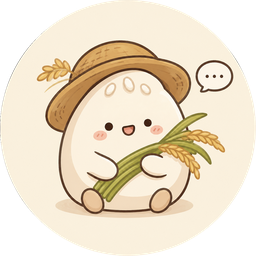
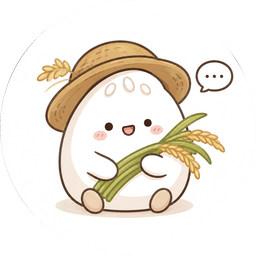
Put 알농이 on a white circle in the floating button
- White-balance the mascot art so its cream backdrop reads pure white,
  keeping the circular alpha crop
- Floating button becomes a white pill with a bordered circular avatar;
  hover reveals "AI 채팅" in brand green

diff --git a/index.html b/index.html
@@ -13,7 +13,7 @@
 <link rel="stylesheet" href="vendor/overlayscrollbars/overlayscrollbars.min.css">
 <script src="vendor/leaflet.js"></script>
 <script src="vendor/agri-chat/agri-chat.min.js"></script>
-<link rel="stylesheet" href="css/style.css?v=42">
+<link rel="stylesheet" href="css/style.css?v=44">
 </head>
 <body>
 
@@ -97,7 +97,7 @@
         </button>
         <div class="notif-panel" id="notifPanel" onclick="event.stopPropagation()">
           <div class="notif-head"><b>알림</b><button onclick="readAllNotifs()">모두 읽음</button></div>
-          <div class="notif-list" id="notifScroll"><div id="notifList"></div></div>
+          <div class="notif-list" id="notifScroll" data-fade><div id="notifList"></div></div>
           <div class="notif-foot"><a href="#" onclick="toast('info','알림 설정 — 시안 범위 외');return false">알림 설정</a></div>
         </div>
       </div>
@@ -375,7 +375,7 @@ docker run --rm -p 8080:8080 \
 
         <div class="mf-panel" style="padding:16px 18px;display:flex;flex-direction:column;gap:8px;flex:1;min-height:0">
           <div class="sec-t" style="font-size:14px" id="rankTitle">시도별 순위 · 평균 경락가</div>
-          <div id="rankScroll" style="overflow-y:auto;flex:1;min-height:0"><div id="rankList" style="display:flex;flex-direction:column;gap:2px"></div></div>
+          <div id="rankScroll" data-fade style="overflow-y:auto;flex:1;min-height:0"><div id="rankList" style="display:flex;flex-direction:column;gap:2px"></div></div>
         </div>
       </div>
 
@@ -745,7 +745,7 @@ docker run --rm -p 8080:8080 \
           <button class="btn btn-neu btn-sm" onclick="dlReceipts()">이용내역 전체 내려받기</button>
         </div>
         <div style="padding:0 26px 8px" class="rcpt-chips" id="rcptChips"></div>
-        <div id="rcptScroll"><div id="rcptList"></div></div>
+        <div id="rcptScroll" data-fade><div id="rcptList"></div></div>
       </div>
     </div>
   </section>
@@ -874,7 +874,7 @@ docker run --rm -p 8080:8080 \
 <!-- ══════════ 플로팅 챗봇 ══════════ -->
 <button class="fab hidden" id="fab" onclick="toggleChatPanel()" aria-label="알농이에게 물어보기">
   <img class="fab-ico" src="assets/alnongi.png" alt="알농이">
-  <span class="fab-label">알농이</span>
+  <span class="fab-label">AI 채팅</span>
 </button>
 
 <div class="chat-panel hidden" id="chatPanel">
@@ -954,7 +954,7 @@ docker run --rm -p 8080:8080 \
       </div>
       <button class="m-x" onclick="closeModal('consentModal')"><svg width="16" height="16" viewBox="0 0 16 16" fill="none"><path d="M3.5 3.5L12.5 12.5M12.5 3.5L3.5 12.5" stroke="#9AA3A0" stroke-width="1.6" stroke-linecap="round"/></svg></button>
     </div>
-    <div class="md-body">
+    <div class="md-body" data-fade>
       <!-- 핵심 요약 (쉬운 말) -->
       <div class="md-summary">
         <b>이 동의로 무엇을 하나요?</b>
@@ -991,7 +991,7 @@ docker run --rm -p 8080:8080 \
   <div class="modal" style="width:480px;max-height:calc(100vh - 120px);display:flex;flex-direction:column">
     <div class="m-head"><div class="m-title" id="termsTitle">약관 보기</div>
       <button class="m-x" onclick="closeModal('termsModal')"><svg width="16" height="16" viewBox="0 0 16 16" fill="none"><path d="M3.5 3.5L12.5 12.5M12.5 3.5L3.5 12.5" stroke="#9AA3A0" stroke-width="1.6" stroke-linecap="round"/></svg></button></div>
-    <div class="m-body" style="overflow-y:auto" id="termsScrollBody"><div id="termsBody"></div></div>
+    <div class="m-body" style="overflow-y:auto" id="termsScrollBody" data-fade><div id="termsBody"></div></div>
     <div class="m-foot"><button class="btn btn-pri" style="width:100%" onclick="closeModal('termsModal')">확인했어요</button></div>
   </div>
 </div>
@@ -1039,7 +1039,7 @@ docker run --rm -p 8080:8080 \
       </div>
       <button class="m-x" onclick="closeModal('dlModal')"><svg width="16" height="16" viewBox="0 0 16 16" fill="none"><path d="M3.5 3.5L12.5 12.5M12.5 3.5L3.5 12.5" stroke="#9AA3A0" stroke-width="1.6" stroke-linecap="round"/></svg></button>
     </div>
-    <div class="md-body" id="dlPick">
+    <div class="md-body" data-fade id="dlPick">
       <div>
         <div class="lbl" style="margin-bottom:8px;font-size:13px">1. 받을 데이터 항목 <span style="color:var(--mut);font-weight:400">(여러 개 선택 가능)</span></div>
         <div class="pick-grid" id="dlItems"></div>
@@ -1073,7 +1073,7 @@ docker run --rm -p 8080:8080 \
       </div>
     </div>
     <!-- 완료 화면 -->
-    <div class="md-body" id="dlDone" style="display:none;text-align:center;padding-top:14px">
+    <div class="md-body" data-fade id="dlDone" style="display:none;text-align:center;padding-top:14px">
       <div class="done-mini"><svg width="26" height="26" viewBox="0 0 38 38" fill="none"><path d="M8 20L16 28L30 11" stroke="#0E7A46" stroke-width="3.5" stroke-linecap="round" stroke-linejoin="round"/></svg></div>
       <div style="font-size:18px;font-weight:900">내려받기 완료</div>
       <div style="font-size:13px;color:var(--sub);line-height:1.7" id="dlDoneSum"></div>
@@ -1097,7 +1097,7 @@ docker run --rm -p 8080:8080 \
       <button class="m-x" onclick="closeModal('shareModal')"><svg width="16" height="16" viewBox="0 0 16 16" fill="none"><path d="M3.5 3.5L12.5 12.5M12.5 3.5L3.5 12.5" stroke="#9AA3A0" stroke-width="1.6" stroke-linecap="round"/></svg></button>
     </div>
     <!-- 1단계: 선택 -->
-    <div class="md-body" id="shareStep1">
+    <div class="md-body" data-fade id="shareStep1">
       <div>
         <div class="lbl" style="margin-bottom:8px;font-size:13px">1. 누구에게 보낼까요?</div>
         <div style="display:flex;flex-direction:column;gap:8px" id="shareOrgs"></div>
@@ -1120,12 +1120,12 @@ docker run --rm -p 8080:8080 \
       </div>
     </div>
     <!-- 2단계: 이동 승인 -->
-    <div class="md-body" id="shareStep2" style="display:none">
+    <div class="md-body" data-fade id="shareStep2" style="display:none">
       <div class="md-summary"><b>이대로 보낼까요?</b><p id="shareSum"></p></div>
       <div class="md-rights">보관 기간이 지나면 받은 기관은 데이터를 파기해야 합니다. 공유 사실은 <b>공유 영수증</b>으로 기록되며, 이용내역에서 언제든 확인할 수 있습니다.</div>
     </div>
     <!-- 완료 -->
-    <div class="md-body" id="shareDone" style="display:none;text-align:center;padding-top:14px">
+    <div class="md-body" data-fade id="shareDone" style="display:none;text-align:center;padding-top:14px">
       <div class="done-mini"><svg width="26" height="26" viewBox="0 0 38 38" fill="none"><path d="M8 20L16 28L30 11" stroke="#0E7A46" stroke-width="3.5" stroke-linecap="round" stroke-linejoin="round"/></svg></div>
       <div style="font-size:18px;font-weight:900">공유 완료</div>
       <div style="font-size:13px;color:var(--sub);line-height:1.7;text-align:left;background:#F9FAF9;border:1px solid var(--bd);border-radius:10px;padding:12px 16px" id="shareDoneSum"></div>
@@ -1150,7 +1150,7 @@ docker run --rm -p 8080:8080 \
       </div>
       <button class="m-x" onclick="closeModal('rcptModal')"><svg width="16" height="16" viewBox="0 0 16 16" fill="none"><path d="M3.5 3.5L12.5 12.5M12.5 3.5L3.5 12.5" stroke="#9AA3A0" stroke-width="1.6" stroke-linecap="round"/></svg></button>
     </div>
-    <div class="m-body" style="overflow-y:auto" id="rcptScrollBody"><div id="rcptBody"></div></div>
+    <div class="m-body" style="overflow-y:auto" id="rcptScrollBody" data-fade><div id="rcptBody"></div></div>
     <div class="m-foot" style="justify-content:space-between;align-items:center">
       <span style="font-size:11.5px;color:var(--mut)">발행: agriG (㈜골든플래닛) · TSA 시점확인 적용</span>
       <button class="btn btn-pri btn-sm" onclick="closeModal('rcptModal')">확인</button>
@@ -1160,6 +1160,6 @@ docker run --rm -p 8080:8080 \
 
 
 <script src="vendor/overlayscrollbars/overlayscrollbars.browser.es6.min.js"></script>
-<script src="js/app.js?v=42"></script>
+<script src="js/app.js?v=44"></script>
 </body>
 </html>

diff --git a/css/style.css b/css/style.css
@@ -181,10 +181,10 @@ input[type=checkbox],input[type=radio]{accent-color:var(--g600);width:17px;heigh
 .hex{color:var(--sub);font-family:Menlo,monospace;font-size:10.5px}
 
 /* ── 플로팅 챗봇 ─────────────────────── */
-.fab{position:fixed;right:28px;bottom:28px;z-index:80;display:flex;align-items:center;height:56px;border-radius:999px;background:var(--g600);color:#fff;box-shadow:0 6px 20px rgba(14,122,70,.35);padding:0 15px;transition:all .28s var(--ease)}
-.fab:hover{transform:translateY(-3px) scale(1.03);box-shadow:0 12px 28px rgba(14,122,70,.45);background:var(--g700)}
-.fab-label{max-width:0;overflow:hidden;white-space:nowrap;opacity:0;font-weight:700;font-size:14px;transition:all .28s var(--ease)}
-.fab:hover .fab-label{max-width:90px;opacity:1;margin-left:9px}
+.fab{position:fixed;right:28px;bottom:28px;z-index:80;display:flex;align-items:center;height:64px;border-radius:999px;background:#fff;color:var(--g700);border:1px solid var(--bd);box-shadow:0 6px 20px rgba(16,24,40,.16);padding:0 12px;transition:all .28s var(--ease)}
+.fab:hover{transform:translateY(-3px) scale(1.03);box-shadow:0 12px 28px rgba(16,24,40,.22);border-color:var(--g400)}
+.fab-label{max-width:0;overflow:hidden;white-space:nowrap;opacity:0;font-weight:700;font-size:14.5px;color:var(--g700);transition:all .28s var(--ease)}
+.fab:hover .fab-label{max-width:90px;opacity:1;margin-left:10px;margin-right:6px}
 .fab.hidden,.chat-panel.hidden{display:none}
 .chat-panel{position:fixed;right:24px;bottom:98px;width:384px;height:600px;max-height:calc(100vh - 130px);z-index:79;background:#fff;border:1px solid var(--bd);border-radius:16px;box-shadow:0 20px 56px rgba(16,24,40,.22);display:flex;flex-direction:column;transform:translateX(430px) scale(.96);opacity:0;pointer-events:none;transition:transform .42s var(--ease),opacity .3s;overflow:hidden}
 .chat-panel.open{transform:none;opacity:1;pointer-events:auto}
@@ -538,11 +538,11 @@ input[type=checkbox],input[type=radio]{accent-color:var(--g600);width:17px;heigh
 /* OverlayScrollbars 호스트 보정
    라이브러리는 호스트를 flex row 로 만들고 내부 viewport 가 실제 스크롤러가 된다.
    호스트에 걸려 있던 레이아웃(display/overflow/flex 방향)을 viewport 로 위임한다. */
-.page.active[data-overlayscrollbars~="host"]{display:flex;overflow:hidden}
+.page.active[data-overlayscrollbars~="host"]{display:flex;overflow:hidden;position:relative}
 .md-body[data-overlayscrollbars~="host"] > [data-overlayscrollbars-viewport]{display:flex;flex-direction:column;gap:14px}
 
 /* ── 알농이 마스코트 ─────────── */
-.fab-ico{width:40px;height:40px;object-fit:contain;flex-shrink:0;filter:drop-shadow(0 1px 2px rgba(0,0,0,.18))}
+.fab-ico{width:40px;height:40px;border-radius:50%;object-fit:cover;flex-shrink:0;background:#fff}
 .cp-ico{width:26px;height:26px;object-fit:contain;flex-shrink:0}
 .mascot-sm{width:30px;height:30px;object-fit:contain;flex-shrink:0}
 
@@ -550,3 +550,16 @@ input[type=checkbox],input[type=radio]{accent-color:var(--g600);width:17px;heigh
 .rcpt-tbl{width:100%;border-collapse:collapse;font-size:12.5px;table-layout:fixed}
 .rcpt-tbl th{width:104px;text-align:left;color:var(--sub);font-weight:700;padding:5px 0;vertical-align:top;white-space:nowrap}
 .rcpt-tbl td{padding:5px 0;color:#374151;line-height:1.6;word-break:keep-all}
+
+/* ── 스크롤 어포던스: 더 볼 내용이 있는 쪽에 페이드 ───────────
+   위/아래로 이어지는 콘텐츠가 있을 때만 해당 방향에 흰색 그라데이션을 덮어
+   "더 있다"는 신호를 준다. absolute 라서 flex 호스트 레이아웃에 영향 없음. */
+.osfade{position:relative}
+.osfade::before,.osfade::after{
+  content:'';position:absolute;left:0;right:0;height:30px;z-index:5;
+  pointer-events:none;opacity:0;transition:opacity .25s var(--ease)
+}
+.osfade::before{top:0;background:linear-gradient(to bottom,var(--fade-c,#fff) 12%,rgba(255,255,255,0))}
+.osfade::after{bottom:0;background:linear-gradient(to top,var(--fade-c,#fff) 12%,rgba(255,255,255,0))}
+.osfade.fade-top::before{opacity:1}
+.osfade.fade-bot::after{opacity:1}

diff --git a/js/app.js b/js/app.js
@@ -156,7 +156,11 @@ function toast(type, msg){
 }
 
 /* ══════════ 모달 ══════════ */
-function openModal(id){ document.getElementById(id).classList.add('open'); }
+function openModal(id){
+  document.getElementById(id).classList.add('open');
+  /* 숨겨진 동안 바뀐 콘텐츠 높이를 반영 */
+  if(typeof osUpdateFades === 'function') setTimeout(osUpdateFades, 30);
+}
 function closeModal(id){ document.getElementById(id).classList.remove('open'); }
 document.querySelectorAll('.overlay').forEach(ov=>{
   ov.addEventListener('click', e=>{ if(e.target===ov) ov.classList.remove('open'); });
@@ -246,6 +250,7 @@ function renderReceipts(){
       <svg width="7" height="12" viewBox="0 0 8 12" fill="none"><path d="M1.5 1.5L6 6L1.5 10.5" stroke="#9AA3A0" stroke-width="1.5" stroke-linecap="round"/></svg>
     </div>`).join('')
     : '<div style="height:100%;display:flex;align-items:center;justify-content:center;text-align:center;font-size:13px;color:var(--sub)">해당 유형의 영수증이 아직 없어요.</div>';
+  if(typeof osUpdateFades === 'function') osUpdateFades();
 }
 function openReceipt(id){
   const r = RECEIPTS.find(x=>x.id===id); if(!r) return;
@@ -1396,6 +1401,7 @@ function renderRank(){
       <div class="rank-bar"><i style="width:${Math.max(4,Math.round(r.v/max*100))}%"></i></div>
       <span style="width:70px;text-align:right;font-size:12px;font-weight:700">${m.fmt(r.v)}<span style="font-weight:400;color:var(--mut);font-size:10.5px">${m.unit}</span></span>
     </div>`).join('');
+  if(typeof osUpdateFades === 'function') osUpdateFades();
 }
 function markRank(){
   document.querySelectorAll('#rankList .rank-row').forEach(el=>el.classList.toggle('sel', el.dataset.code===PANEL.code));
@@ -1580,6 +1586,7 @@ function renderNotifs(){
         <div class="notif-time">${n.time}</div>
       </div>
     </div>`).join('');
+  if(typeof osUpdateFades === 'function') osUpdateFades();
   const unread = NOTIFS.filter(n=>n.unread).length;
   const badge = document.getElementById('bellBadge');
   badge.textContent = unread;
@@ -1670,8 +1677,27 @@ function osInit(el, opt){
   if(OS(el)) return OS(el);                                 /* 중복 초기화 방지 */
   const inst = OS(el, opt || OS_OPT);
   osBindReveal(el, inst);
+  if(el.hasAttribute('data-fade')) osBindFade(el, inst);
   return inst;
 }
+/* 스크롤 어포던스: 위/아래로 더 볼 내용이 있으면 그 방향에 페이드를 켠다 */
+var OS_FADES = [];            /* 초기 렌더가 선행될 수 있어 호이스팅되는 var 사용 */
+function osBindFade(host, inst){
+  const vp = inst.elements().viewport;
+  host.classList.add('osfade');
+  const upd = ()=>{
+    const max = vp.scrollHeight - vp.clientHeight;
+    const t = vp.scrollTop;
+    host.classList.toggle('fade-top', max > 4 && t > 4);
+    host.classList.toggle('fade-bot', max > 4 && t < max - 4);
+  };
+  vp.addEventListener('scroll', upd, {passive:true});
+  if(typeof inst.on === 'function'){ inst.on('scroll', upd); inst.on('updated', upd); }
+  OS_FADES.push(upd);
+  upd();
+}
+/* 목록을 다시 그린 뒤 호출 (콘텐츠 높이가 바뀌므로) */
+function osUpdateFades(){ (OS_FADES||[]).forEach(f=>{ try{ f(); }catch(e){} }); }
 /* 스크롤 중 또는 스크롤바 영역 hover 시에만 스크롤바를 노출한다 */
 function osBindReveal(host, inst){
   const els = inst.elements();
